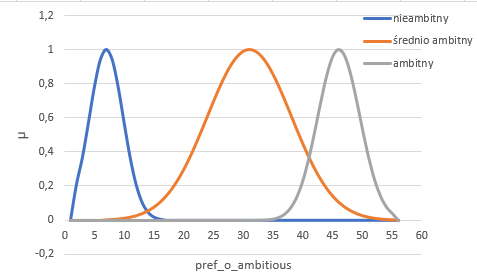
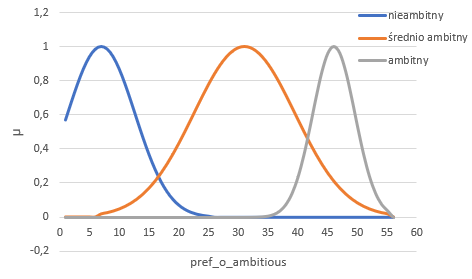
2.1 i 2.2 małe poprawki

diff --git a/sprawko/Sprawozdanie-projekt-2-podsumowania.tex b/sprawko/Sprawozdanie-projekt-2-podsumowania.tex
@@ -34,6 +34,8 @@
 % opisie Projektu 2. i Harmonogramie Zajęć na WIKAMP KSR jako efekty zadań w~poszczególnych tygodniach}. 
 
 \section{Cel}
+
+% poprawka
 Celem zadania jest stworzenie aplikacji, której główna funkcjonalność odpowiedzialna jest za lingwistyczną agregacje zawartości, wybranego do badania, zbioru danych\cite{database}. 
 Program generuje opis w jezyku quasi-naturlanym na podstawie danych liczbowych w zbiorze. Część eksperymentalna zadania stanowi określenie 
 wpływu wyboru kwantyfikatorów, sumatorów, kwalifikatorów i ich miar jakości na wiarygodność i jakość otrzymanych podsumowań. 
@@ -294,11 +296,11 @@ Poniżej zostały przedstawione wzory i wykresy przedstwiające poszczególne zm
     \end{equation}
 
     \begin{equation}
-      \mu_{\text{znaczące}} = e^{-{(x-6)}^2}, dla x \in [5,7]
+      \mu_{\text{znaczące}} = e^{-{(x-6)}^2}, \text{ dla } x \in [5,7]
     \end{equation}
 
     \begin{equation}
-      \mu_{\text{ważne}} = e^{-(\frac{x-9}{1.5})^2}, dla x \in [7,10]
+      \mu_{\text{ważne}} = e^{-(\frac{x-9}{1.5})^2}, \text{ dla } x \in [7,10]
     \end{equation}
 
       \begin{figure}[H]
@@ -345,11 +347,11 @@ Poniżej zostały przedstawione wzory i wykresy przedstwiające poszczególne zm
     \end{equation}
 
     \begin{equation}
-      \mu_{\text{znaczące}} = e^{-{(x-6)}^2}, dla x \in [5,7]
+      \mu_{\text{znaczące}} = e^{-{(x-6)}^2}, \text{ dla } x \in [5,7]
     \end{equation}
 
     \begin{equation}
-      \mu_{\text{ważne}} = e^{-(\frac{x-9}{1.5})^2}, dla x \in [7,10]
+      \mu_{\text{ważne}} = e^{-(\frac{x-9}{1.5})^2}, \text{ dla } x \in [7,10]
     \end{equation}
 
       \begin{figure}[H]
@@ -409,15 +411,15 @@ Poniżej zostały przedstawione wzory i wykresy przedstwiające poszczególne zm
 
   \item pref\_o\_ambitious
   \begin{equation}
-    \mu_{nieambitny} = e^{-(\frac{x-6}{4})^2}, dla x \in [0,15]
+    \mu_{nieambitny} = e^{-(\frac{x-6}{8})^2}, \text{ dla } x \in [0,24]
   \end{equation}
 
   \begin{equation}
-    \mu_{średnio\_ambitny} = e^{-(\frac{x-30}{10})^2}, dla x \in [5,52]
+    \mu_{średnio\_ambitny} = e^{-(\frac{x-30}{12})^2}, \text{ dla } x \in [5,54]
   \end{equation}
 
   \begin{equation}
-    \mu_{ambitny} = e^{-(\frac{x-45}{5})^2}, dla x \in [30,55]
+    \mu_{ambitny} = e^{-(\frac{x-45}{5})^2}, \text{ dla } x \in [30,55]
   \end{equation}
   
   \begin{figure}[H]
@@ -663,7 +665,8 @@ Poniżej zostały przedstawione wzory i wykresy przedstwiające poszczególne zm
 
 \subsection{Kwantyfikatory lingwistyczne (liczności obiektów)}
 
-Poniżej zostały przedstawione wzory i wykresy przedstwiające poszczególne kwantyfikatory lingwistyczne. \( \mu_z(x) \) oznacza wartość funkcji przynależności kwantyfikatora lingwistycznego \(z\) dla danego atrybutu zbioru danych zależnie od wartości x:
+Poniżej zostały przedstawione wzory i wykresy przedstwiające poszczególne kwantyfikatory lingwistyczne, zarówno względne jak i absolutne. 
+\( \mu_z(x) \) oznacza wartość funkcji przynależności kwantyfikatora lingwistycznego \(z\) dla danego atrybutu zbioru danych zależnie od wartości x:
 
  \begin{equation}
     \mu_{\text{Prawie żadne}} = 
@@ -682,6 +685,10 @@ Poniżej zostały przedstawione wzory i wykresy przedstwiające poszczególne kw
       \end{cases}  
   \end{equation}
   
+  \begin{equation}
+    \mu_{\text{ok. 1/3}} = e^{-(\frac{x-2700}{800})^2}, \text{ dla } x \in [1000,5000]
+  \end{equation}
+
    \begin{equation}
     \mu_{\text{Około połowy}} =
       \begin{cases}
@@ -709,8 +716,47 @@ Poniżej zostały przedstawione wzory i wykresy przedstwiające poszczególne kw
  \begin{figure}[H]
  \centering
    \includegraphics{kwantyfikatory.png}
-   \caption{Wykres funkcji przynależności dla kwantyfikatorów użytych w zadaniu}
+   \caption{Wykres funkcji przynależności dla kwantyfikatorów względnych użytych w zadaniu}
  \end{figure}
+
+  
+ \begin{equation}
+  \mu_{\text{mniej niż 1000}} =
+    \begin{cases}
+      1 & \text{ dla } x \in [0,600] \\
+      0.0034x - 3.34 & \text{ dla } x \in [600,1000] \\
+    \end{cases}  
+\end{equation}
+
+\begin{equation}
+  \mu_{\text{ponad 1000}} = e^{-(\frac{x-1500}{500})^2}, \text{ dla } x \in [300,2700]
+\end{equation}
+
+\begin{equation}
+  \mu_{\text{ok. 3000}} =
+    \begin{cases}
+      0.001x - 1.6 & \text{ dla } x \in [1600,2600] \\
+      1 & \text{ dla } x \in [2600,4000] \\
+      0.001x +5 & \text{ dla } x \in [4000,5000] \\
+    \end{cases}  
+\end{equation}
+
+\begin{equation}
+  \mu_{\text{ponad 5000}} =e^{-(\frac{x-5000}{1000})^2}, \text{ dla } x \in [2800,6900]
+\end{equation}
+
+\begin{equation}
+  \mu_{\text{ok. 8000}} =
+    \begin{cases}
+      0.0004x - 2.2 & \text{ dla } x \in [5500,8000] \\
+      1 & \text{ dla } x \in [8000,8400] \\
+    \end{cases}  
+\end{equation}
+
+ \begin{figure}[H]
+  \includegraphics{fp_qa.png}
+  \caption{Wykres funkcji przynależności dla kwantyfikatorów absolutnych użytych w zadaniu}
+\end{figure}
 
 %Jw. kwantyfikatory lingwistyczne -- opisane etykietami, wykresami funkcji
 %przynależności i wzorami analitycznymi. Uzasadnione wiedzą dziedzinową  
@@ -736,6 +782,7 @@ wprowadzać parametry  podsumowań, odczytywać wyniki oraz definiować własne 
 kwantyfikatory.\\
 
 Wersja JRE i inne wymogi niezbędne do uruchomienia aplikacji przez użytkownika na własnym komputerze. 
+
 
 \section{ Jednopodmiotowe podsumowania lingwistyczne. Miary jakości, podsumowanie optymalne}
 Wyniki kolejnych eksperymentów wg punktów 2.-4. opisu projektu 2.  Listy podsumowań
